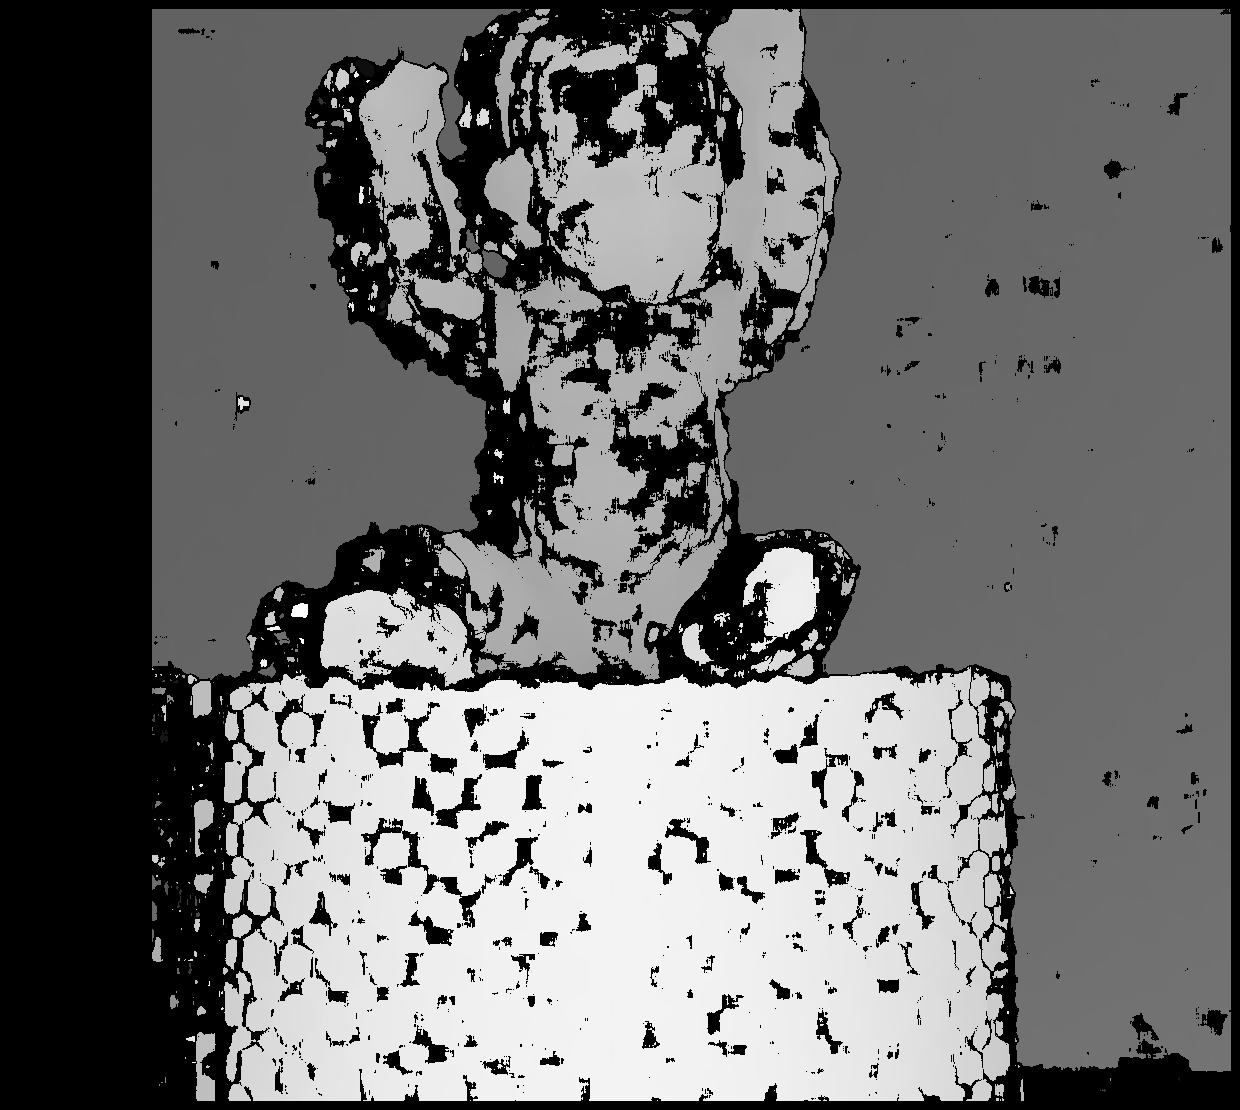
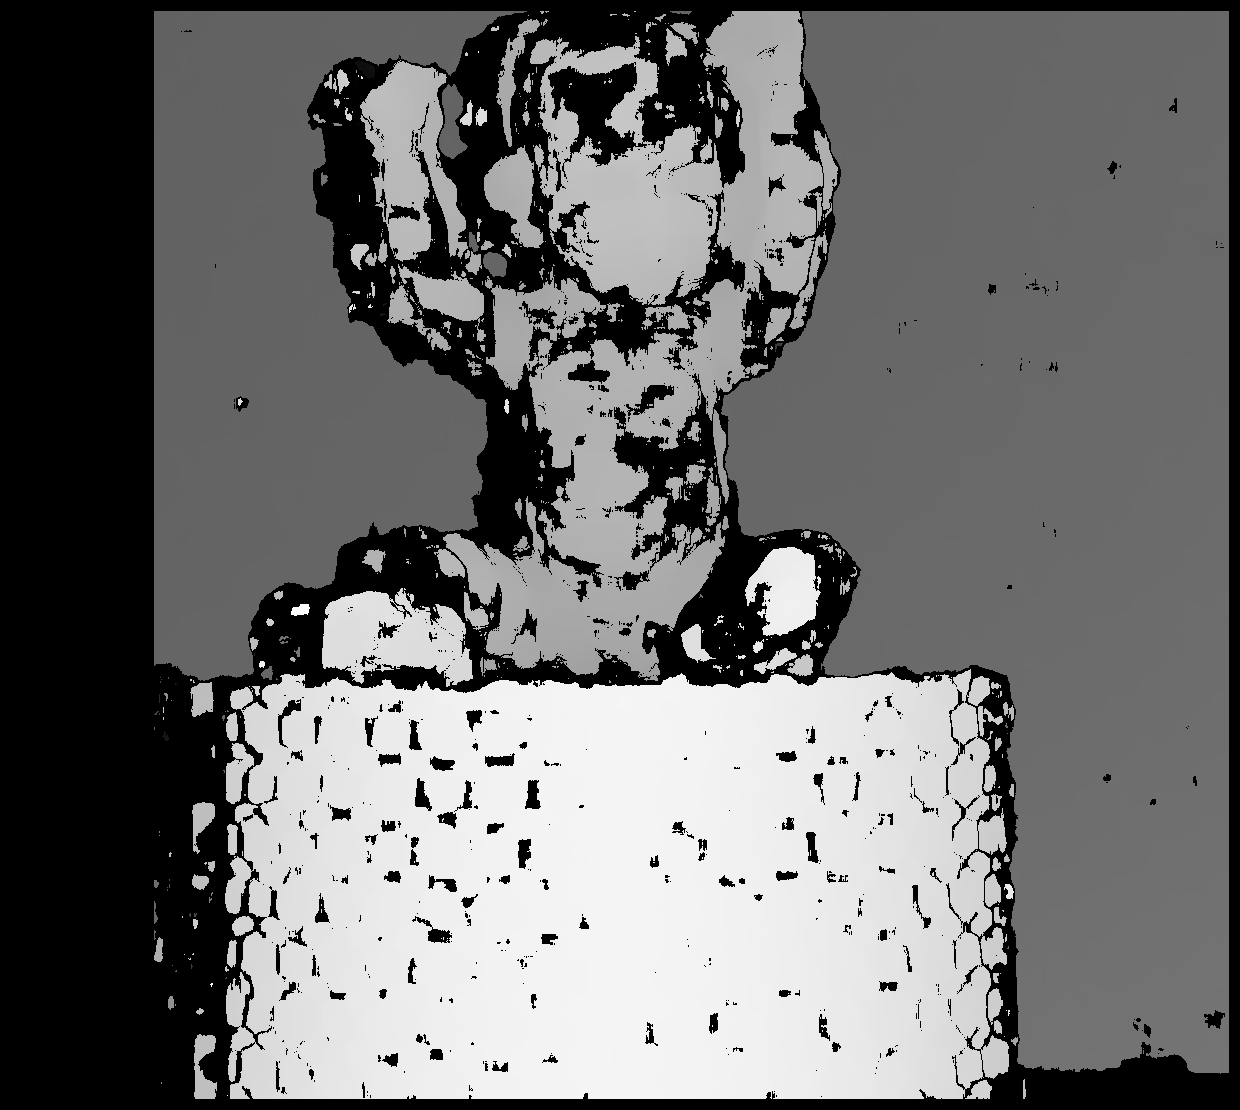
mudança do requisito 3

diff --git a/src/pd3.py b/src/pd3.py
@@ -169,25 +169,37 @@ def measureBox():
 
     leftImage = openImage("data/MorpheusR.jpg")
     rightImage = openImage("data/MorpheusL.jpg")
-    rotation = getRotation(MORPHEUS_LEFT_ROTATION, MORPHEUS_RIGHT_ROTATION)
-    translation = getTranslation(rotation, MORPHEUS_LEFT_TRANSLATION, MORPHEUS_RIGHT_TRANSLATION)
+    rotation = getRotation(MORPHEUS_RIGHT_ROTATION, MORPHEUS_LEFT_ROTATION)
+    translation = getTranslation(rotation, MORPHEUS_RIGHT_TRANSLATION, MORPHEUS_LEFT_TRANSLATION)
 
-    r1, r2, p1, p2, q, _, _ = cv2.stereoRectify(MORPHEUS_LEFT_CAMERA, None, MORPHEUS_RIGHT_CAMERA, None,
+    r1, r2, p1, p2, q, _, _ = cv2.stereoRectify(MORPHEUS_RIGHT_CAMERA, None, MORPHEUS_LEFT_CAMERA, None,
                                                 leftImage.shape[0:2], rotation, translation, flags=0)
 
-    map1x, map1y = cv2.initUndistortRectifyMap(MORPHEUS_LEFT_CAMERA, None, r1, p1, leftImage.shape[0:2], cv2.CV_32FC1)
-    map2x, map2y = cv2.initUndistortRectifyMap(MORPHEUS_RIGHT_CAMERA, None, r2, p2, leftImage.shape[0:2], cv2.CV_32FC1)
+    map1x, map1y = cv2.initUndistortRectifyMap(MORPHEUS_RIGHT_CAMERA, None, r1, p1, leftImage.shape[0:2], cv2.CV_32FC1)
+    map2x, map2y = cv2.initUndistortRectifyMap(MORPHEUS_LEFT_CAMERA, None, r2, p2, leftImage.shape[0:2], cv2.CV_32FC1)
     leftReprojection = cv2.remap(leftImage, map1x, map1y, cv2.INTER_LINEAR)
     rightReprojection = cv2.remap(rightImage, map2x, map2y, cv2.INTER_LINEAR)
 
-    corMatrix, worldCoords = tuneParameters("r3", leftReprojection, rightReprojection, q)
-    dispMatrix = normalize(corMatrix)
+    cv2.namedWindow('Retificação', cv2.WINDOW_KEEPRATIO)
+    retification = np.hstack([leftReprojection, rightReprojection])
+    for row in range(retification.shape[0]):
+        if row % 50 == 0:
+            cv2.line(retification, (0, row), (retification.shape[1], row), (0, 255, 0), 3)
+
+    while(True):
+        cv2.imshow("Retificação", retification)
+        if cv2.waitKey(1) & 0xFF == 27:
+            break
+    cv2.destroyAllWindows()
+    cv2.waitKey(1)
+
+    dispMatrix, worldCoords = tuneParameters("r3", leftReprojection, rightReprojection, q)
 
     cv2.namedWindow('Imagem', cv2.WINDOW_KEEPRATIO)
     cv2.setMouseCallback('Imagem', getMeasure, [dispMatrix, worldCoords])
 
     while(True):
-        cv2.imshow("Imagem", dispMatrix)
+        cv2.imshow("Imagem", normalize(dispMatrix))
         if cv2.waitKey(1) & 0xFF == 27:
             break
     cv2.destroyAllWindows()

diff --git a/README.md b/README.md
@@ -4,8 +4,7 @@ Third project of discipline Computer Vision Foundations
 
 
 
-Medidas: h:  429.1368713378906, 454.46417236328125, 540.4277954101562 => 47e1 +- 5e1
-		 w:  218.40032958984375, 229.86317443847656, 251.98239135742188 => 23e1 +- 1e1
-		 depth: 90e1 +- 3e1s
-		 diagonal: 1045.3836669921875, 1041.2415771484375, 1044.7791748046875 =>1044  +- 2
- 
+Medidas: h:  182.75465393066406, 187.7033233642578, 182.94374084472656 std: 2 mean: 184
+		 w:  196.45753479003906, 202.6244659423828, 195.78472900390625 std: 3 mean: 198
+		 d:  110.52819061279297, 106.2879638671875, 101.92191314697266 std: 4 mean: 106
+
